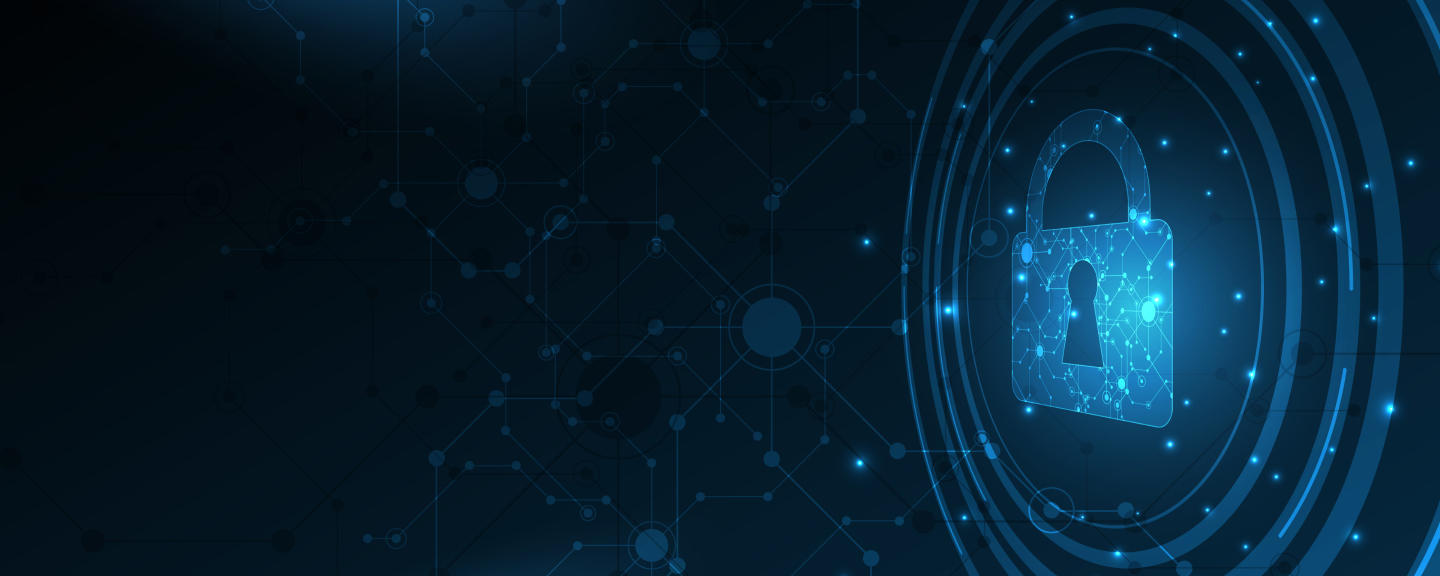
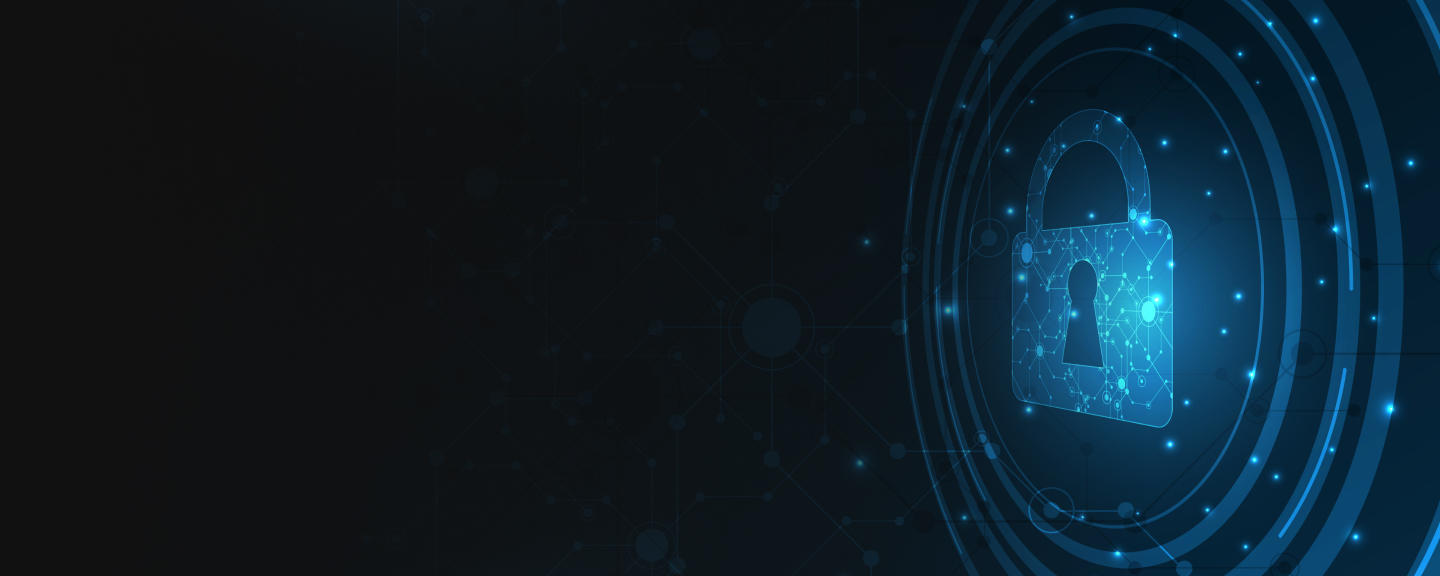
bugfix

diff --git a/components/im-in-touch/IITMainBannerDesktop.tsx b/components/im-in-touch/IITMainBannerDesktop.tsx
@@ -200,7 +200,7 @@ const ImInTouchGoMail = ({ clickable, location }: { clickable?: boolean, locatio
   <BannerContainer alignment="left" backgroundImageSrc={iitGoMailBanner.src} customBoxStyles={{ backgroundPositionY: '35%' }} clickable={clickable} location={location}>
     <ProductTitle variant={HeadingVariants.Heading2} headingColor={HeadingColors.White}>I'm InTouch GoMail</ProductTitle>
     <BannerContentHeading variant={HeadingVariants.Heading1} headingColor={HeadingColors.White}>
-      Mobilize Your Outlook®
+      Mobilize Your Outlook<sup style={{ fontSize: '14px', top: '-16px' }}>®</sup>
     </BannerContentHeading>
     <BannerContentText variant={TextVariants.Body1} textColor={TextColors.White} style={{ width: '80%' }}>
       A Revolutionary Mobile Mailbox
@@ -211,7 +211,7 @@ const ImInTouchGoMail = ({ clickable, location }: { clickable?: boolean, locatio
       </Box>
       <Link href='https://locator.01com.com/ecommerce/account.php' target="_blank"><SecondaryCTAButton>Try it Free</SecondaryCTAButton></Link>
     </Box>
-  </BannerContainer>
+  </BannerContainer >
 )
 
 const ImInTouchPhysicalAuthBanner = ({ clickable, location }: { clickable?: boolean, location?: string }) => (
@@ -223,30 +223,30 @@ const ImInTouchPhysicalAuthBanner = ({ clickable, location }: { clickable?: bool
     <BannerContentText variant={TextVariants.Body1} textColor={TextColors.White} style={{ width: '80%' }}>
       <span style={{ whiteSpace: 'nowrap' }}>Ultimate Security for your I'm InTouch</span> Remote PC Access
     </BannerContentText>
-    <Box flexDirection='row'>
+    {/* <Box flexDirection='row'>
       <Box margin="0px 24px 0px 0px">
         <Link href='https://locator.01com.com/ecommerce/account.php' target="_blank"><PrimaryCTAButton>Buy Now</PrimaryCTAButton></Link>
       </Box>
       <Link href='https://locator.01com.com/ecommerce/account.php' target="_blank"><SecondaryCTAButton>Try it Free</SecondaryCTAButton></Link>
-    </Box>
+    </Box> */}
   </BannerContainer>
 )
 
 const ImInTouchProductiveBanner = ({ clickable, location }: { clickable?: boolean, location?: string }) => (
   <BannerContainer alignment="left" backgroundImageSrc={iitProductivityBanner.src} customBoxStyles={{ backgroundPositionY: 'top' }} clickable={clickable} location={location}>
-    <ProductTitle variant={HeadingVariants.Heading2} headingColor={HeadingColors.White}>I'm InTouch</ProductTitle>
+    <ProductTitle variant={HeadingVariants.Heading2} headingColor={HeadingColors.White}>I'm InTouch Server Edition</ProductTitle>
     <BannerContentHeading variant={HeadingVariants.Heading1} headingColor={HeadingColors.White}>
       Be productive as a company work efficiently anywhere!
     </BannerContentHeading>
     <BannerContentText variant={TextVariants.Body1} textColor={TextColors.White} style={{ width: '80%' }}>
       Host your own I'm InTouch remote access service
     </BannerContentText>
-    <Box flexDirection='row'>
+    {/* <Box flexDirection='row'>
       <Box margin="0px 24px 0px 0px">
         <Link href='https://locator.01com.com/ecommerce/account.php' target="_blank"><PrimaryCTAButton>Buy Now</PrimaryCTAButton></Link>
       </Box>
       <Link href='https://locator.01com.com/ecommerce/account.php' target="_blank"><SecondaryCTAButton>Try it Free</SecondaryCTAButton></Link>
-    </Box>
+    </Box> */}
   </BannerContainer>
 )
 

diff --git a/components/im-in-touch/IITMainBannerMobile.tsx b/components/im-in-touch/IITMainBannerMobile.tsx
@@ -130,7 +130,7 @@ const ImInTouchGoMail = ({ clickable, location }: { clickable?: boolean, locatio
   <BannerContainer backgroundImageSrc={iitGoMailBanner.src} customBoxStyles={{ backgroundPositionY: '35%' }} clickable={clickable} location={location} >
     <ProductTitle variant={HeadingVariants.Heading2} headingColor={HeadingColors.White}>I'm InTouch GoMail</ProductTitle>
     <BannerContentHeading variant={HeadingVariants.Heading1} headingColor={HeadingColors.White}>
-      Mobilize Your Outlook®
+      Mobilize Your Outlook<sup style={{ fontSize: '14px', top: '-16px' }}>®</sup>
     </BannerContentHeading>
     <BannerContentText variant={TextVariants.Body1} textColor={TextColors.White}>
       A Revolutionary Mobile Mailbox
@@ -153,31 +153,31 @@ const ImInTouchPhysicalAuthBanner = ({ clickable, location }: { clickable?: bool
     <BannerContentText variant={TextVariants.Body1} textColor={TextColors.White}>
       <span style={{ whiteSpace: 'nowrap' }}>Ultimate Security for your I'm InTouch</span> Remote PC Access
     </BannerContentText>
-    <Box flexDirection='row'>
+    {/* <Box flexDirection='row'>
       <Box margin="0px 24px 0px 0px">
         <Link href='https://locator.01com.com/ecommerce/account.php' target="_blank"><PrimaryCTAButton>Buy Now</PrimaryCTAButton></Link>
       </Box>
       <Link href='https://locator.01com.com/ecommerce/account.php' target="_blank"><SecondaryCTAButton>Try it Free</SecondaryCTAButton></Link>
-    </Box>
+    </Box> */}
   </BannerContainer >
 )
 
 
 const ImInTouchProductiveBanner = ({ clickable, location }: { clickable?: boolean, location?: string }) => (
   <BannerContainer backgroundImageSrc={iitProductivityBanner.src} customBoxStyles={{ backgroundPositionY: '35%' }} clickable={clickable} location={location}>
-    <ProductTitle variant={HeadingVariants.Heading2} headingColor={HeadingColors.White}>I'm InTouch</ProductTitle>
+    <ProductTitle variant={HeadingVariants.Heading2} headingColor={HeadingColors.White}>I'm InTouch Server Edition</ProductTitle>
     <BannerContentHeading variant={HeadingVariants.Heading1} headingColor={HeadingColors.White}>
       Be productive as a company work efficiently anywhere!
     </BannerContentHeading>
     <BannerContentText variant={TextVariants.Body1} textColor={TextColors.White}>
       Host your own I'm InTouch remote access service
     </BannerContentText>
-    <Box flexDirection='row'>
+    {/* <Box flexDirection='row'>
       <Box margin="0px 24px 0px 0px">
         <Link href='https://locator.01com.com/ecommerce/account.php' target="_blank"><PrimaryCTAButton>Buy Now</PrimaryCTAButton></Link>
       </Box>
       <Link href='https://locator.01com.com/ecommerce/account.php' target="_blank"><SecondaryCTAButton>Try it Free</SecondaryCTAButton></Link>
-    </Box>
+    </Box> */}
   </BannerContainer >
 )
 

diff --git a/components/im-in-touch/IITContentBannersMobile.tsx b/components/im-in-touch/IITContentBannersMobile.tsx
@@ -1,12 +1,11 @@
 import styled from 'styled-components'
 import { Box, Text, TextVariants, TextColors } from '../core'
 import Heading, { HeadingColors, HeadingVariants } from '../core/heading'
-import iit2faBanner from '../../public/assets/iit-2fa-banner.jpg'
-import iitAccessBanner from '../../public/assets/iit-access-banner.jpg'
-import iitVpnBanner from '../../public/assets/iit-vpn-banner.jpg'
+import iit2faBanner from '../../public/assets/iit-2fa-banner-mobile.jpg'
+import iitAccessBanner from '../../public/assets/iit-access-banner-mobile.jpg'
+import iitVpnBanner from '../../public/assets/iit-vpn-banner-mobile.jpg'
 import "react-responsive-carousel/lib/styles/carousel.min.css";
 import { ReactNode } from 'react'
-import { breakpoints } from '../../utils/breakpoints'
 
 const Container = styled(Box)`
 width: 100vw;
@@ -27,7 +26,7 @@ const BannerContainer = ({ children, backgroundImageSrc, customBoxStyles }: {
       padding="48px 24px"
       flexDirection='row'
       flexAlignment='flex-end'
-      style={{ height: '600px', textAlign: 'left', ...customBoxStyles }}>
+      style={{ height: '480px', textAlign: 'left', ...customBoxStyles }}>
       <BannerContentContainer>
         {children}
       </BannerContentContainer>
@@ -46,7 +45,7 @@ const BannerContentHeading = styled(Heading)`
 
 
 const VPNBanner = () => (
-  <BannerContainer backgroundImageSrc={iitVpnBanner.src} customBoxStyles={{ backgroundPositionX: '20%' }}>
+  <BannerContainer backgroundImageSrc={iitVpnBanner.src} >
     <BannerContentHeading headingColor={HeadingColors.White}>A Secure & Improved Alternative to VPN</BannerContentHeading>
     <Text variant={TextVariants.Body1} textColor={TextColors.White}>
       Unlike VPN, I'm InTouch establishes zero-trust between the client and the corporate network. This means the corporate network will not be affected even if the client computer has been compromised.
@@ -55,7 +54,7 @@ const VPNBanner = () => (
 )
 
 const Security2FABanner = () => (
-  <BannerContainer backgroundImageSrc={iit2faBanner.src} customBoxStyles={{ backgroundPositionX: '85%' }}>
+  <BannerContainer backgroundImageSrc={iit2faBanner.src} >
     <BannerContentHeading variant={HeadingVariants.Heading1} headingColor={HeadingColors.White}>
       Securing Accounts with Two-Factor Authentication
     </BannerContentHeading>
@@ -66,7 +65,7 @@ const Security2FABanner = () => (
 )
 
 const AccessBanner = () => (
-  <BannerContainer backgroundImageSrc={iitAccessBanner.src} customBoxStyles={{ backgroundPositionX: '65%' }}>
+  <BannerContainer backgroundImageSrc={iitAccessBanner.src} >
     <BannerContentHeading variant={HeadingVariants.Heading1} headingColor={HeadingColors.White}>
       Maximum Security with Controlled Access
     </BannerContentHeading>

diff --git a/pages/imintouch-remote-pc-desktop/server/pricing-comparison.tsx b/pages/imintouch-remote-pc-desktop/server/pricing-comparison.tsx
@@ -383,7 +383,7 @@ export default function ServerPricing() {
                 <Image src={DotFull.src} alt="full checkmark" width={20} height={20} />
               </td>
               <td>
-                <Image src={DotHalf.src} alt="full checkmark" width={20} height={20} />
+                <Image src={DotFull.src} alt="full checkmark" width={20} height={20} />
               </td>
             </tr>
             <tr>
@@ -394,7 +394,7 @@ export default function ServerPricing() {
                 <Image src={DotFull.src} alt="full checkmark" width={20} height={20} />
               </td>
               <td>
-                <Image src={DotHalf.src} alt="full checkmark" width={20} height={20} />
+                <Image src={DotEmpty.src} alt="empty checkmark" width={20} height={20} />
               </td>
             </tr>
             <tr>
@@ -427,7 +427,7 @@ export default function ServerPricing() {
                 <Image src={DotFull.src} alt="full checkmark" width={20} height={20} />
               </td>
               <td>
-                <Image src={DotEmpty.src} alt="half checkmark" width={20} height={20} />
+                <Image src={DotEmpty.src} alt="empty checkmark" width={20} height={20} />
               </td>
             </tr>
             <tr>
@@ -438,7 +438,7 @@ export default function ServerPricing() {
                 <Image src={DotFull.src} alt="full checkmark" width={20} height={20} />
               </td>
               <td>
-                <Image src={DotEmpty.src} alt="half checkmark" width={20} height={20} />
+                <Image src={DotEmpty.src} alt="empty checkmark" width={20} height={20} />
               </td>
             </tr>
           </tbody>

diff --git a/pages/imintouch-remote-pc-desktop/server/benefits.tsx b/pages/imintouch-remote-pc-desktop/server/benefits.tsx
@@ -111,7 +111,7 @@ export default function ServerBenefits() {
               ). I'm InTouch Server Edition is a cost-effective solution for
               businesses requiring a{" "}
               <StyledLink
-                href="/imintouch-remote-pc-desktop/server/features/"
+                href="/imintouch-remote-pc-desktop/server/how-it-works/"
                 target="_blank"
               >
                 premise-based remote access</StyledLink> software that they can fully manage and control. If
@@ -119,7 +119,7 @@ export default function ServerBenefits() {
               multiple remote desktops in your business but prefer that we
               manage the technology for you, try our{" "}
               <StyledLink
-                href="/imintouch-remote-pc-desktop/server/how-it-works/"
+                href="/imintouch-remote-pc-desktop/"
                 target="_blank"
               >
                 I'm InTouch

diff --git a/pages/imintouch-remote-pc-desktop/server/features/access-rights.tsx b/pages/imintouch-remote-pc-desktop/server/features/access-rights.tsx
@@ -2,7 +2,7 @@ import Head from "next/head";
 import styled from "styled-components";
 import { Box, Text } from "../../../../components/core";
 import { IITPageBanner } from "../../../../components/im-in-touch/IITPageBanner";
-import FeatureImage from "../../../../public/assets/server-admin.jpg";
+import FeatureImage from "../../../../public/assets/iit-access-rights.png";
 import IITLayout from "../../../../components/im-in-touch/IITLayout";
 import Image from "next/image";
 import { PageContentContainer } from "../../../../components/PageContentContainer";
